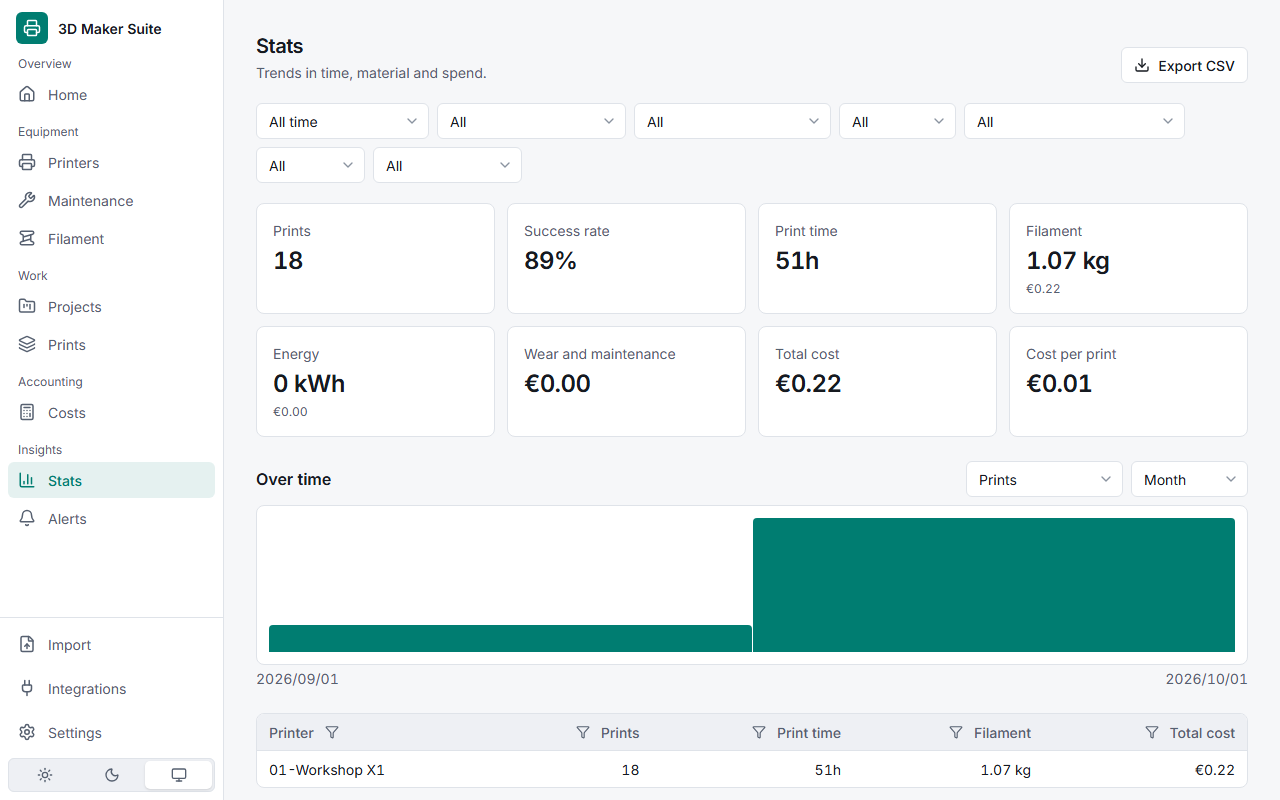
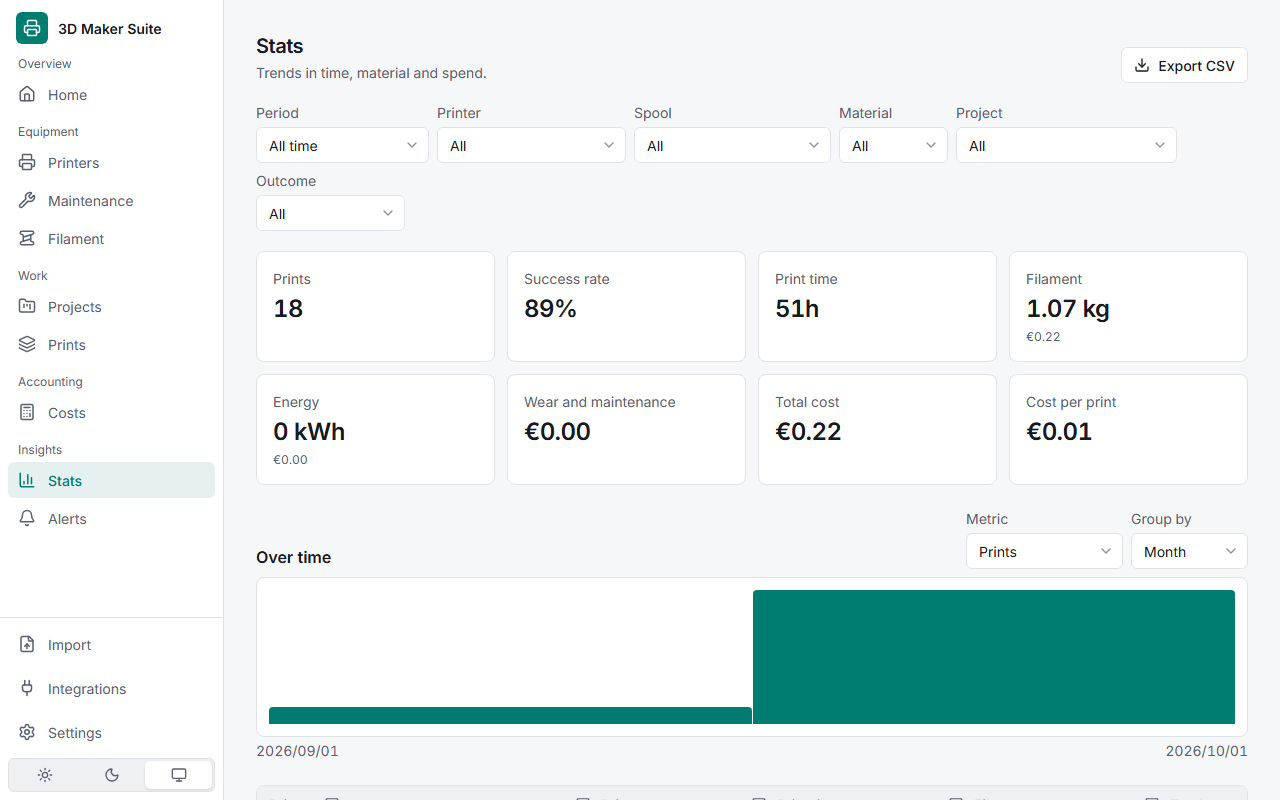
feat(stats): material filter and labelled filters
- The filament profile filter becomes a material filter (PLA, PETG...),
  listing only the materials of your spools; like the spool filter it
  counts only that material's grams and share of time and costs.
- Every filter and chart control has a visible label above it.
- The Tag filter only shows once there are tags.

No new dependency.

diff --git a/apps/web/src/pages/stats/StatsPage.tsx b/apps/web/src/pages/stats/StatsPage.tsx
@@ -1,6 +1,6 @@
 import type { Stats, StatsMetrics } from "@3d-maker-suite/core";
 import { ChartColumn, Download } from "lucide-react";
-import { useState } from "react";
+import { type ReactNode, useId, useState } from "react";
 import { useTranslation } from "react-i18next";
 import { Combobox } from "../../components/Combobox.tsx";
 import { DataTable, type ListQuery } from "../../components/DataTable.tsx";
@@ -10,7 +10,7 @@ import { inputClass } from "../../components/FormField.tsx";
 import { PageHeader } from "../../components/PageHeader.tsx";
 import { StatCard } from "../../components/StatCard.tsx";
 import { useMoney } from "../../lib/cost.ts";
-import { filamentLabel, spoolName, useProfiles, useSpools } from "../../lib/filament.ts";
+import { spoolName, useProfiles, useSpools } from "../../lib/filament.ts";
 import {
   formatDate,
   formatDuration,
@@ -52,6 +52,19 @@ type Group = Stats["breakdowns"]["printer"][number];
 const dayStr = (daysAgo: number) =>
   new Date(Date.now() - daysAgo * 86_400_000).toISOString().slice(0, 10);
 
+/** A filter with its name above it. */
+function Field({ label, children }: { label: string; children: (id: string) => ReactNode }) {
+  const id = useId();
+  return (
+    <div className="flex flex-col gap-1">
+      <label htmlFor={id} className="text-sm text-muted">
+        {label}
+      </label>
+      {children(id)}
+    </div>
+  );
+}
+
 function Select({
   label,
   value,
@@ -66,13 +79,18 @@ function Select({
   options: { value: string; label: string }[];
 }) {
   return (
-    <Combobox
-      aria-label={label}
-      className={`${inputClass} w-auto!`}
-      value={value}
-      onChange={onChange}
-      options={[{ value: "", label: all }, ...options]}
-    />
+    <Field label={label}>
+      {(id) => (
+        <Combobox
+          id={id}
+          aria-label={label}
+          className={`${inputClass} w-auto!`}
+          value={value}
+          onChange={onChange}
+          options={[{ value: "", label: all }, ...options]}
+        />
+      )}
+    </Field>
   );
 }
 
@@ -86,7 +104,7 @@ export function StatsPage() {
     to: "",
     printerId: "",
     spoolId: "",
-    profileId: "",
+    materialId: "",
     projectId: "",
     tagId: "",
     outcome: "",
@@ -102,6 +120,17 @@ export function StatsPage() {
   const printers = usePrinters({ archived: false }).data?.items ?? [];
   const spools = useSpools().data?.items ?? [];
   const profiles = useProfiles().data?.items ?? [];
+  // Only the materials of your spools, not the whole catalog (presets bring dozens).
+  const materials = [
+    ...new Map(
+      spools.flatMap((s) => {
+        const p = profiles.find((x) => x.id === s.profileId);
+        return p?.materialId ? [[p.materialId, p.material] as const] : [];
+      }),
+    ),
+  ]
+    .map(([value, label]) => ({ value, label }))
+    .sort((a, b) => a.label.localeCompare(b.label));
   const projects = useProjects().data?.items ?? [];
   const tags = useTags().data ?? [];
   const all = t("stats:filters.all");
@@ -192,22 +221,30 @@ export function StatsPage() {
         </p>
       )}
 
-      <search className="mb-5 flex flex-wrap items-center gap-2">
-        <Combobox
-          aria-label={t("stats:filters.period")}
-          className={`${inputClass} w-auto!`}
-          value={preset}
-          onChange={(v) => pickPreset(v as keyof typeof PRESETS)}
-          options={(Object.keys(PRESETS) as (keyof typeof PRESETS)[]).map((p) => ({
-            value: p,
-            label: t(PRESETS[p]),
-          }))}
-        />
+      <search className="mb-5 flex flex-wrap items-end gap-2">
+        <Field label={t("stats:filters.period")}>
+          {(id) => (
+            <Combobox
+              id={id}
+              aria-label={t("stats:filters.period")}
+              className={`${inputClass} w-auto!`}
+              value={preset}
+              onChange={(v) => pickPreset(v as keyof typeof PRESETS)}
+              options={(Object.keys(PRESETS) as (keyof typeof PRESETS)[]).map((p) => ({
+                value: p,
+                label: t(PRESETS[p]),
+              }))}
+            />
+          )}
+        </Field>
         {preset === "custom" && (
-          <DateRangePicker
-            value={{ from: f.from || undefined, to: f.to || undefined }}
-            onChange={(r) => set({ from: r.from ?? "", to: r.to ?? "" })}
-          />
+          <div className="flex flex-col gap-1">
+            <span className="text-sm text-muted">{t("stats:presets.custom")}</span>
+            <DateRangePicker
+              value={{ from: f.from || undefined, to: f.to || undefined }}
+              onChange={(r) => set({ from: r.from ?? "", to: r.to ?? "" })}
+            />
+          </div>
         )}
         <Select
           label={t("stats:filters.printer")}
@@ -231,11 +268,11 @@ export function StatsPage() {
           }))}
         />
         <Select
-          label={t("stats:filters.profile")}
+          label={t("stats:filters.material")}
           all={all}
-          value={f.profileId}
-          onChange={(profileId) => set({ profileId })}
-          options={profiles.map((p) => ({ value: p.id, label: filamentLabel(p) }))}
+          value={f.materialId}
+          onChange={(materialId) => set({ materialId })}
+          options={materials}
         />
         <Select
           label={t("stats:filters.project")}
@@ -244,13 +281,15 @@ export function StatsPage() {
           onChange={(projectId) => set({ projectId })}
           options={projects.map((p) => ({ value: p.id, label: projectName(t, p) }))}
         />
-        <Select
-          label={t("stats:filters.tag")}
-          all={all}
-          value={f.tagId}
-          onChange={(tagId) => set({ tagId })}
-          options={tags.map((x) => ({ value: x.id, label: x.name }))}
-        />
+        {tags.length > 0 && (
+          <Select
+            label={t("stats:filters.tag")}
+            all={all}
+            value={f.tagId}
+            onChange={(tagId) => set({ tagId })}
+            options={tags.map((x) => ({ value: x.id, label: x.name }))}
+          />
+        )}
         <Select
           label={t("stats:filters.outcome")}
           all={all}
@@ -308,30 +347,40 @@ export function StatsPage() {
             </div>
 
             <section aria-labelledby="stats-series">
-              <div className="mb-2 flex flex-wrap items-center gap-2">
+              <div className="mb-2 flex flex-wrap items-end gap-2">
                 <h2 id="stats-series" className="mr-auto text-base font-semibold">
                   {t("stats:series.title")}
                 </h2>
-                <Combobox
-                  aria-label={t("stats:series.metric")}
-                  className={`${inputClass} w-auto!`}
-                  value={metric}
-                  onChange={(v) => setMetric(v as keyof typeof METRICS)}
-                  options={(Object.keys(METRICS) as (keyof typeof METRICS)[]).map((m) => ({
-                    value: m,
-                    label: t(METRICS[m]),
-                  }))}
-                />
-                <Combobox
-                  aria-label={t("stats:series.bucket")}
-                  className={`${inputClass} w-auto!`}
-                  value={f.bucket}
-                  onChange={(v) => set({ bucket: v as StatsFilters["bucket"] })}
-                  options={(Object.keys(BUCKETS) as (keyof typeof BUCKETS)[]).map((b) => ({
-                    value: b,
-                    label: t(BUCKETS[b]),
-                  }))}
-                />
+                <Field label={t("stats:series.metric")}>
+                  {(id) => (
+                    <Combobox
+                      id={id}
+                      aria-label={t("stats:series.metric")}
+                      className={`${inputClass} w-auto!`}
+                      value={metric}
+                      onChange={(v) => setMetric(v as keyof typeof METRICS)}
+                      options={(Object.keys(METRICS) as (keyof typeof METRICS)[]).map((m) => ({
+                        value: m,
+                        label: t(METRICS[m]),
+                      }))}
+                    />
+                  )}
+                </Field>
+                <Field label={t("stats:series.bucket")}>
+                  {(id) => (
+                    <Combobox
+                      id={id}
+                      aria-label={t("stats:series.bucket")}
+                      className={`${inputClass} w-auto!`}
+                      value={f.bucket}
+                      onChange={(v) => set({ bucket: v as StatsFilters["bucket"] })}
+                      options={(Object.keys(BUCKETS) as (keyof typeof BUCKETS)[]).map((b) => ({
+                        value: b,
+                        label: t(BUCKETS[b]),
+                      }))}
+                    />
+                  )}
+                </Field>
               </div>
               <ul className="flex h-40 items-end gap-px overflow-x-auto rounded-lg border border-border bg-surface p-3">
                 {data.series.map((r) => (

diff --git a/apps/server/src/lib/stats.ts b/apps/server/src/lib/stats.ts
@@ -38,33 +38,35 @@ export function readStats(db: Db, q: StatsQuery): Stats {
     [...rates].map(([id, r]) => sql`(${id}, ${r.wearPerHour}, ${r.maintenancePerHour})`),
     sql`, `,
   );
-  const using = (column: typeof usages.spoolId | typeof usages.profileId, ids?: string[]) =>
-    ids
-      ? inArray(
-          prints.id,
-          db.select({ id: usages.printId }).from(usages).where(inArray(column, ids)),
-        )
-      : undefined;
+  const list = (ids: string[]) =>
+    sql.join(
+      ids.map((id) => sql`${id}`),
+      sql`, `,
+    );
+  // A usage's material is its profile's (the spool's profile when the usage has none).
+  const usageMaterial = sql`(SELECT fp.material_id FROM filament_profiles fp
+    WHERE fp.id = COALESCE(us.profile_id, (SELECT sp.profile_id FROM spools sp WHERE sp.id = us.spool_id)))`;
   const where: SQL | undefined = and(
     dateRange(prints.startedAt, q),
     inIds(prints.printerId, q.printerId),
     inIds(prints.projectId, q.projectId),
     inIds(prints.outcome, q.outcome),
     taggedWith(db, "print", prints.id, q.tagId),
-    using(usages.spoolId, q.spoolId),
-    using(usages.profileId, q.profileId),
+    q.spoolId &&
+      inArray(
+        prints.id,
+        db.select({ id: usages.printId }).from(usages).where(inArray(usages.spoolId, q.spoolId)),
+      ),
+    q.materialId &&
+      sql`${prints.id} IN (SELECT us.print_id FROM print_filament_usages us
+        WHERE ${usageMaterial} IN (${list(q.materialId)}))`,
   );
 
-  // With a spool/profile filter only the matching usages count: their grams, and their share (by
+  // With a spool/material filter only the matching usages count: their grams, and their share (by
   // grams) of the print's time, energy, wear and maintenance. Without one every usage is a hit.
-  const list = (ids: string[]) =>
-    sql.join(
-      ids.map((id) => sql`${id}`),
-      sql`, `,
-    );
   const hit = and(
     q.spoolId && sql`us.spool_id IN (${list(q.spoolId)})`,
-    q.profileId && sql`COALESCE(us.profile_id, sp.profile_id) IN (${list(q.profileId)})`,
+    q.materialId && sql`${usageMaterial} IN (${list(q.materialId)})`,
   );
   const cte = sql`
     WITH rate(printer_id, wear, maint) AS (VALUES ('', 0, 0), ${rateRows}),

diff --git a/apps/server/src/stats.test.ts b/apps/server/src/stats.test.ts
@@ -94,6 +94,25 @@ describe("stats", () => {
     expect(stats.breakdowns.filament[0]?.seconds).toBeCloseTo(stats.totals.seconds, -1);
   });
 
+  it("filters by material, counting only that material's grams", async () => {
+    const { app, db } = await setup();
+    const profiles = db.select().from(schema.filamentProfiles).all();
+    const material = profiles[0]?.materialId ?? "";
+    const ofMaterial = new Set(profiles.filter((p) => p.materialId === material).map((p) => p.id));
+    const used = db
+      .select()
+      .from(schema.printFilamentUsages)
+      .all()
+      .filter((u) => ofMaterial.has(u.profileId ?? ""));
+    const stats = await get(app, `?materialId=${material}`);
+    expect(stats.totals.prints).toBe(new Set(used.map((u) => u.printId)).size);
+    expect(stats.totals.grams).toBeCloseTo(used.reduce((n, u) => n + u.grams, 0));
+    expect(stats.totals.grams).toBeLessThan((await get(app)).totals.grams);
+    expect(stats.breakdowns.filament.every((f) => ofMaterial.has(f.key?.split("|")[0] ?? ""))).toBe(
+      true,
+    );
+  });
+
   it("fills empty buckets and reports the estimated part of the time", async () => {
     const { app, db } = await setup();
     const [first] = db.select().from(schema.prints).all();

diff --git a/e2e/app.e2e.ts b/e2e/app.e2e.ts
@@ -147,6 +147,12 @@ test("stats open on all time, with coloured filament rows and a bounded projects
   await expect(projects.locator("tbody tr")).toHaveCount(10);
   await page.getByRole("button", { name: "Next" }).first().click();
   await expect(projects.locator("tbody tr")).toHaveCount(2);
+
+  // Filters have visible labels; Tag only shows once there are tags.
+  await expect(page.getByText("Material", { exact: true })).toBeVisible();
+  await expect(page.getByLabel("Tag", { exact: true })).toHaveCount(0);
+  await pick(page.getByLabel("Material", { exact: true }), "PLA");
+  await expect(prints).toContainText("12");
 });
 
 test("create and list a backup", async ({ page }) => {

diff --git a/packages/core/src/schemas/stats.ts b/packages/core/src/schemas/stats.ts
@@ -10,7 +10,8 @@ export const statsQuerySchema = dateRangeQuery.extend({
   outcome: idList.optional(),
   tagId: idList.optional(),
   spoolId: idList.optional(),
-  profileId: idList.optional(),
+  /** Filament material (PLA, PETG...): prints that used it, counting only that material's share. */
+  materialId: idList.optional(),
   bucket: z.enum(STATS_BUCKETS).default("day"),
 });
 

diff --git a/apps/web/src/widgets/period.ts b/apps/web/src/widgets/period.ts
@@ -36,7 +36,7 @@ export function statsFor(period: (typeof PERIODS)[number], bucket: StatsFilters[
     to: "",
     printerId: "",
     spoolId: "",
-    profileId: "",
+    materialId: "",
     projectId: "",
     tagId: "",
     outcome: "",

diff --git a/apps/web/src/lib/stats.ts b/apps/web/src/lib/stats.ts
@@ -8,7 +8,7 @@ export type StatsFilters = {
   to: string;
   printerId: string;
   spoolId: string;
-  profileId: string;
+  materialId: string;
   projectId: string;
   tagId: string;
   outcome: string;
